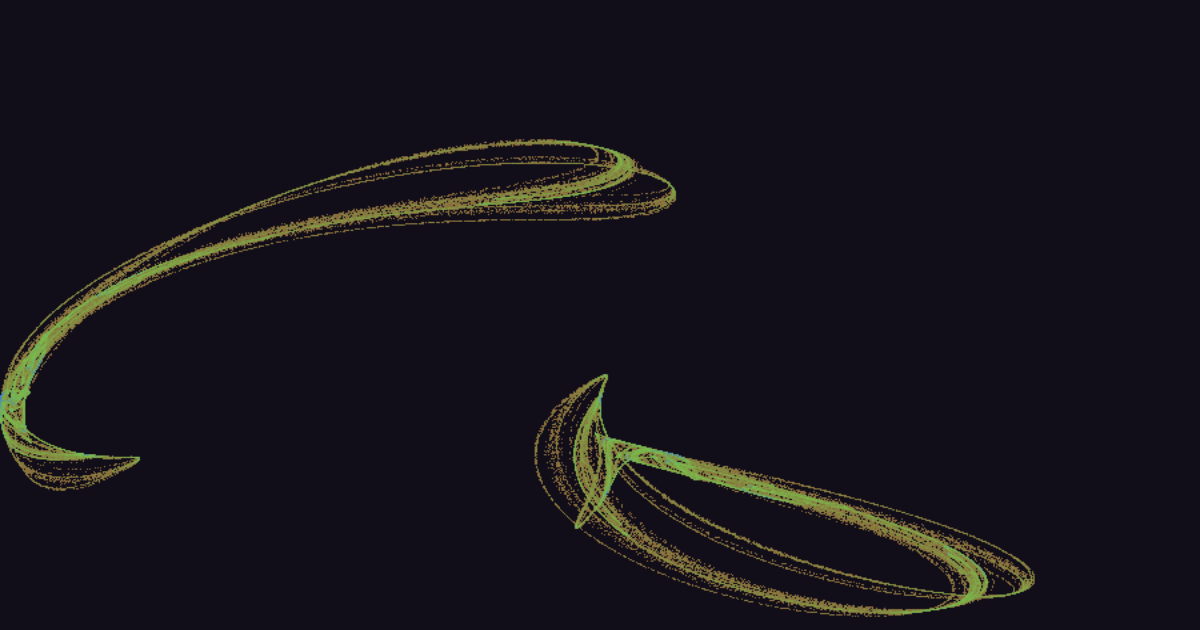
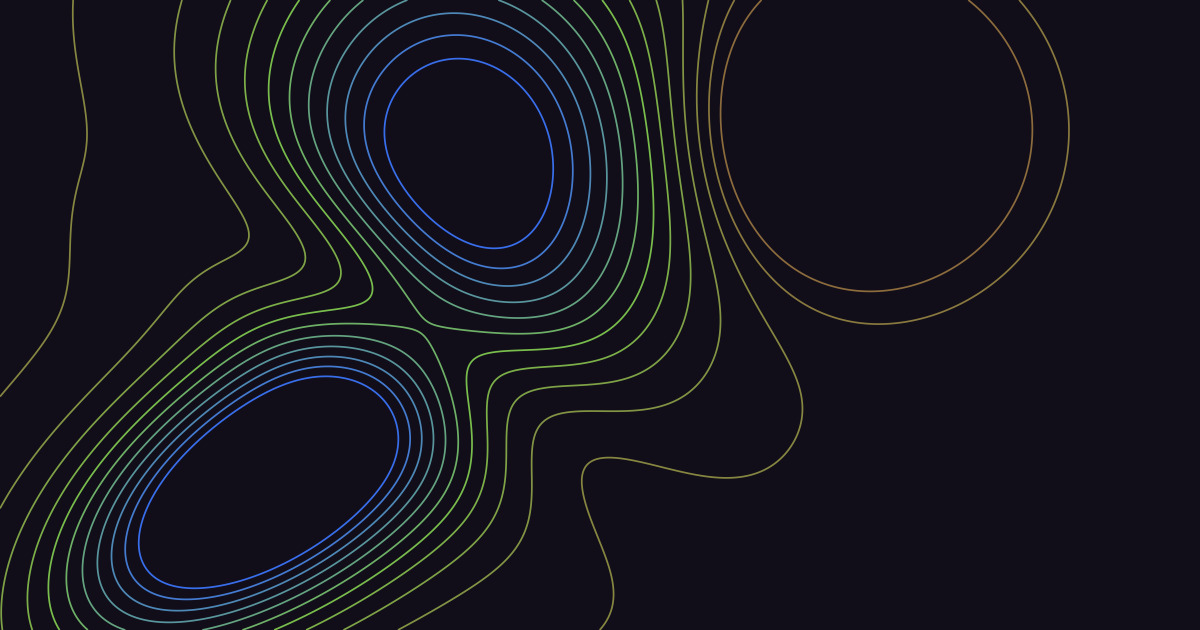
Replace dynamical cards with contour fields

diff --git a/scripts/generate_post_cards.py b/scripts/generate_post_cards.py
@@ -80,7 +80,7 @@ def read_post(source: Path) -> Post:
 
 
 COLOR_HUES = (0.52, 0.08, 0.76, 0.25, 0.60)
-COLOR_NAMES = ("flow", "voronoi", "julia", "cellular", "dynamical")
+COLOR_NAMES = ("flow", "voronoi", "julia", "cellular", "contour")
 FRAME_NAMES = ("rule", "double", "inset", "bracket")
 
 
@@ -227,67 +227,36 @@ def julia_set(
     ax.set_ylim(-1.0, 1.0)
 
 
-DE_JONG_BASES = (
-    (1.400, -2.300, 2.400, -2.100),
-    (1.641, 1.902, 0.316, 1.525),
-    (-1.770, -0.601, 1.127, 0.889),
-    (0.970, -1.899, 1.381, -1.506),
-    (1.500, -1.800, 1.600, 0.900),
-)
+def potential_contours(
+    ax: plt.Axes,
+    digest: bytes,
+    palette_map: colors.Colormap,
+) -> None:
+    """Draw level curves of a deterministic anisotropic radial basis field."""
+    rng = np.random.default_rng(int.from_bytes(digest[8:16], "big"))
+    x, y = np.meshgrid(np.linspace(-1.5, 1.5, 960), np.linspace(-0.8, 0.8, 540))
+    field = np.zeros_like(x)
+    source_count = 3 + digest[16] % 4
+    for _ in range(source_count):
+        center_x, center_y = rng.uniform((-1.15, -0.55), (1.15, 0.55))
+        scale_x, scale_y = rng.uniform(0.20, 0.60), rng.uniform(0.12, 0.38)
+        angle = rng.uniform(0, np.pi)
+        amplitude = rng.choice((-1, 1)) * rng.uniform(0.65, 1.35)
+        dx, dy = x - center_x, y - center_y
+        major = np.cos(angle) * dx + np.sin(angle) * dy
+        minor = -np.sin(angle) * dx + np.cos(angle) * dy
+        field += amplitude * np.exp(-0.5 * ((major / scale_x) ** 2 + (minor / scale_y) ** 2))
+
+    low, high = np.quantile(field, (0.10, 0.92))
+    levels = np.linspace(low, high, 13)
+    line_colors = [palette_map(index / (len(levels) - 1)) for index in range(len(levels))]
+    ax.contour(x, y, field, levels=levels, colors=line_colors, linewidths=1.25, antialiased=True)
+    ax.set_xlim(-1.5, 1.5)
+    ax.set_ylim(-0.8, 0.8)
 
 
-def dynamical_histogram(parameters: tuple[float, float, float, float]) -> np.ndarray | None:
-    """Return a non-degenerate De Jong density, or reject a collapsed orbit."""
-    a, b, c, d = parameters
-    x, y = 0.1, 0.1
-    points = np.empty((150_000, 2))
-    for index in range(len(points) + 500):
-        x, y = np.sin(a * y) - np.cos(b * x), np.sin(c * x) - np.cos(d * y)
-        if index >= 500:
-            points[index - 500] = x, y
-
-    histogram, _, _ = np.histogram2d(
-        points[:, 0], points[:, 1], bins=(900, 480), range=((-2, 2), (-2, 2))
-    )
-    # A fixed point or tiny cycle is mathematically legitimate but unreadable
-    # as a card. Require enough occupied bins to expose an actual attractor.
-    if np.count_nonzero(histogram) < 1_500:
-        return None
-    return np.ma.masked_equal(np.log1p(histogram.T), 0)
-
-
-def dynamical_system(ax: plt.Axes, digest: bytes, palette_map: colors.Colormap) -> None:
-    perturbation = tuple((byte_float(digest, index) - 0.5) * 0.12 for index in range(9, 13))
-    start = digest[8] % len(DE_JONG_BASES)
-    image = None
-    for offset in range(len(DE_JONG_BASES)):
-        base = DE_JONG_BASES[(start + offset) % len(DE_JONG_BASES)]
-        parameters = tuple(value + delta for value, delta in zip(base, perturbation))
-        image = dynamical_histogram(parameters)
-        if image is not None:
-            break
-
-    if image is None:
-        # The vetted first seed remains a deterministic final guard for future
-        # numerical-library changes that alter an edge-case orbit.
-        image = dynamical_histogram(DE_JONG_BASES[0])
-    assert image is not None
-    density_map = palette_map.copy()
-    density_map.set_bad(alpha=0)
-    ax.imshow(
-        image,
-        extent=(-2, 2, -2, 2),
-        origin="lower",
-        cmap=density_map,
-        interpolation="bilinear",
-        aspect="auto",
-    )
-    ax.set_xlim(-2, 2)
-    ax.set_ylim(-2, 2)
-
-
-FAMILIES = (flow_field, voronoi_geometry, julia_set, cellular_automaton, dynamical_system)
-FAMILY_NAMES = ("flow", "voronoi", "julia", "cellular", "dynamical")
+FAMILIES = (flow_field, voronoi_geometry, julia_set, cellular_automaton, potential_contours)
+FAMILY_NAMES = ("flow", "voronoi", "julia", "cellular", "contour")
 
 
 def render(post: Post) -> tuple[str, str]:

diff --git a/content/posts/deterministic-post-cards.md b/content/posts/deterministic-post-cards.md
@@ -165,31 +165,29 @@ through the local rule.
 
 {{< cite wolfram2002 >}}
 
-### De Jong dynamical systems
+### Potential-field contours
 
-The final family uses a two-dimensional nonlinear recurrence commonly called a
-De Jong attractor:
+The final family constructs a scalar field from 3 to 6 anisotropic radial
+basis sources. For a source at $p_j$, write its rotated coordinates as
+$(u_j, v_j)$ and its principal scales as $(\sigma_{x,j}, \sigma_{y,j})$. The
+field is
 
 $$
-\begin{aligned}
-x_{n+1} &= \sin(a y_n) - \cos(b x_n), \\
-y_{n+1} &= \sin(c x_n) - \cos(d y_n).
-\end{aligned}
+F(x,y) = \sum_{j=1}^{m} w_j
+\exp\!\left[-\frac{1}{2}\left(
+\frac{u_j^2}{\sigma_{x,j}^2} +
+\frac{v_j^2}{\sigma_{y,j}^2}\right)\right].
 $$
 
-The generator chooses one of several vetted coefficient quadruples, then adds
-a small digest-derived perturbation to all four values. Starting at
-$(0.1, 0.1)$, it discards the first 500 states as a transient and records the
-next 150,000. Rather than drawing each point directly, it bins the orbit into
-a 900 by 480 two-dimensional histogram and displays $\log(1 + h)$, where
-$h$ is the bin count. The logarithm makes both dense attractor cores and faint
-outer structure visible. A fixed point or tiny cycle is valid dynamics but
-unreadable at card scale, so a deterministic alternate vetted seed is used
-when fewer than 1,500 histogram bins are occupied. Empty bins are masked to
-the dark canvas background, leaving only the orbit visible across the full
-1200 by 630 frame.
+Each source's position, orientation, scales, and signed weight $w_j$ come
+from a digest-seeded pseudo-random stream. The card draws 13 level curves
+$F(x,y) = \ell$ between the 10th and 92nd percentiles of the field. Positive
+and negative sources create ridges, saddles, and nested basins; anisotropy
+prevents the result from degenerating into concentric circles. The output is
+mathematical linework rather than a density raster, so it remains crisp at the
+1200 by 630 social-card resolution.
 
-{{< cite bourke1991 >}}
+{{< cite buhmann2003 >}}
 
 ## Palette and frame are a second system
 

diff --git a/docs/THEME.md b/docs/THEME.md
@@ -170,18 +170,14 @@ the OS setting):
   interactive overlay, so the source link remains the single navigation
   target.
 
-### Post-card dynamical systems
+### Post-card potential-field contours
 
-The De Jong family is selected with the same uniform digest partition as every
-other card family, but it does not map arbitrary digest bytes directly to all
-four recurrence coefficients. Instead it chooses a vetted attractor seed and
-applies a small deterministic perturbation. The generator rejects a fixed
-point or near-cycle with fewer than 1,500 occupied density bins, then tries
-the next deterministic vetted seed. This preserves reproducibility and family
-selection while ensuring a dynamical card actually has visible structure.
-Empty density bins are transparent against the card's dark canvas and the
-histogram uses the full 1200×630 aspect ratio, rather than exposing a square
-plot field inside a wide social image.
+The fifth uniformly selected card family is a deterministic anisotropic radial
+basis field. A digest-seeded generator chooses 3 to 6 source positions,
+orientations, scales, and signed weights; the renderer sums their Gaussian
+potentials and draws 13 contour levels between the field's 10th and 92nd
+percentiles. This produces crisp ridges, saddles, nested basins, and
+topographic-like linework without a fragile orbit-density raster.
 
 ### Metadata: tags, categories, status
 
@@ -561,7 +557,7 @@ space:
 - nearest-site Voronoi regions plus local network connections,
 - escape-time Julia sets, or
 - elementary cellular automata, or
-- histograms of a De Jong dynamical system.
+- level curves of an anisotropic radial basis potential field.
 
 The remaining body-digest bytes derive all drawing coefficients, initial
 points, densities, and iteration counts. Separately, a hash of the title and

diff --git a/docs/PLAN.md b/docs/PLAN.md
@@ -196,7 +196,7 @@ sequence, skipping issue #5 (Graph indexing) for last/brainstorm.
       `scripts/generate_post_cards.py` hashes normalized
       post source and renders opaque, reproducible 1200×630 cards. A digest
       byte selects uniformly among flow fields, Voronoi geometry, Julia
-      fractals, cellular automata, and dynamical-system trajectories. The
+      fractals, cellular automata, and potential-field contours. The
       body hash controls shapes; a separate title-and-metadata hash controls
       palette and visible frame. The local pre-commit hook generates and
       stages PNG files and manifest in the same post-changing commit, while

diff --git a/AGENTS.md b/AGENTS.md
@@ -167,7 +167,7 @@ site/
   `generate-post-cards.yml` regenerates in CI and fails if the committed
   results differ. A post body hash chooses and
   parameterizes the drawing family (flow fields, Voronoi geometry, Julia
-  fractals, cellular automata, or dynamical trajectories); a separate title
+  fractals, cellular automata, or potential-field contours); a separate title
   and metadata hash chooses color and frame. Hugo reads the manifest to show
   the card in the post and expose it through `og:image`/`twitter:image`. See
   docs/THEME.md → "Mathematical post cards (#33)".
